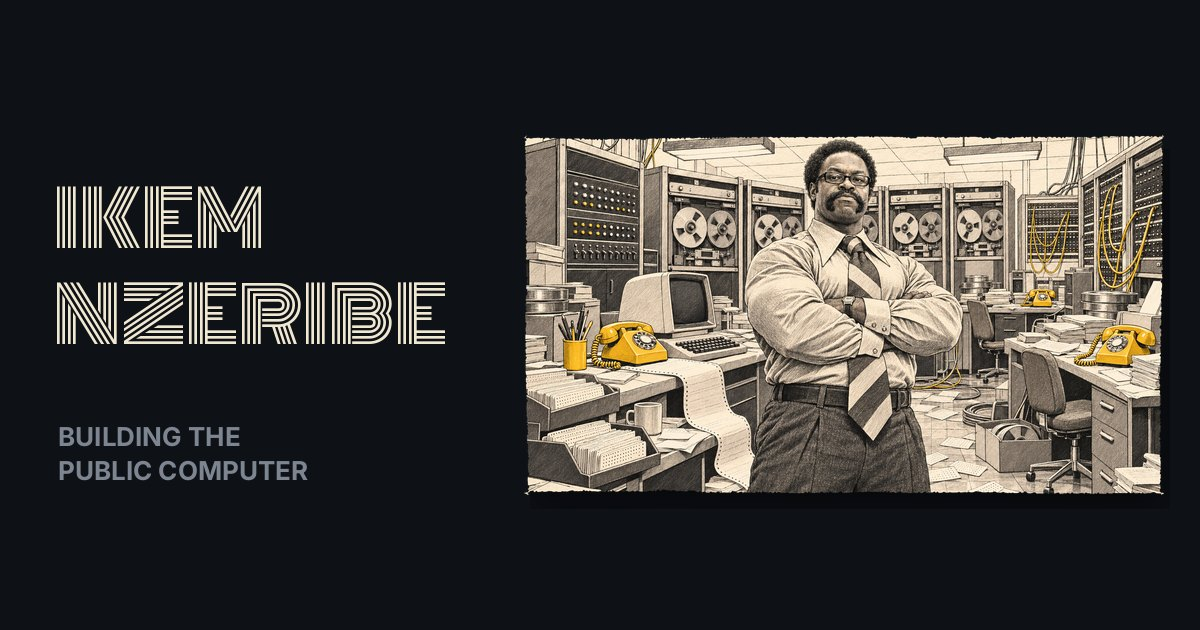
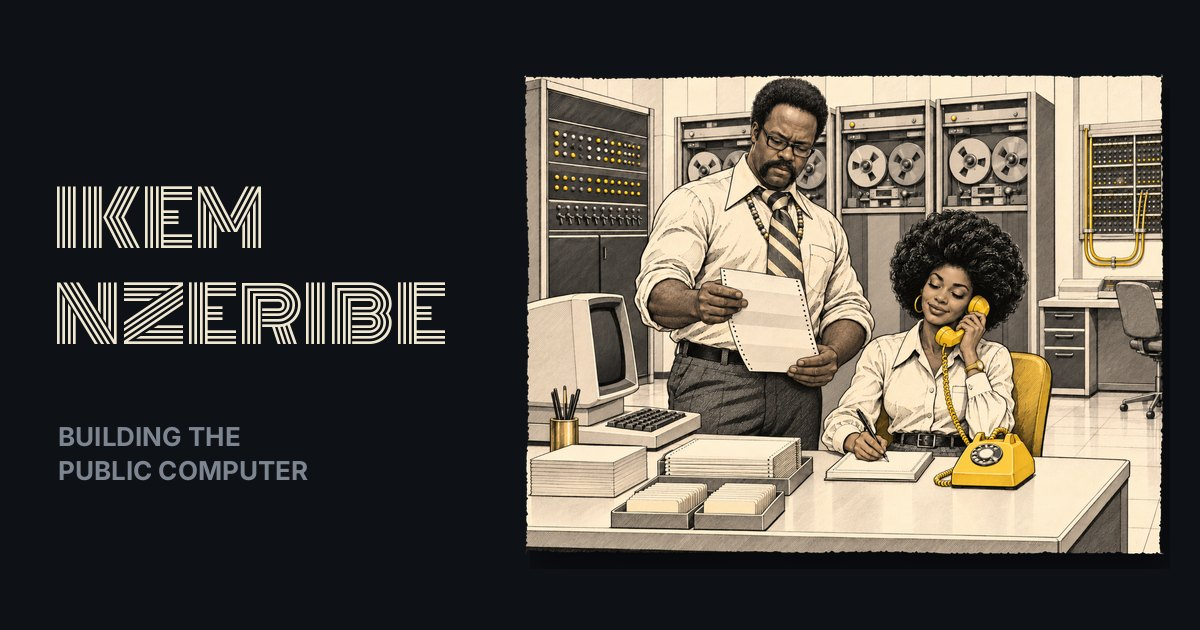
Update

diff --git a/index.html b/index.html
@@ -13,7 +13,7 @@
 <meta property="og:image" content="https://nzeribe.uk/img/og.jpg">
 <meta property="og:image:width" content="1200">
 <meta property="og:image:height" content="630">
-<meta property="og:image:alt" content="Ikem Nzeribe, drawn standing arms folded in a 1970s computer room, beside his name in striped 1970s letters.">
+<meta property="og:image:alt" content="Ikem Nzeribe and a colleague, drawn at work in a 1970s computer room, beside his name in striped 1970s letters.">
 <meta name="twitter:card" content="summary_large_image">
 <meta name="theme-color" content="#0e1116">
 <link rel="icon" type="image/png" sizes="64x64" href="img/favicon-64.png">
@@ -37,7 +37,7 @@
 
   <figure class="wrap card hero">
     <div class="frame">
-      <img src="img/hero-1600.webp" srcset="img/hero-900.webp 900w, img/hero-1600.webp 1600w" sizes="(min-width: 1280px) 1184px, calc(100vw - 2rem)" width="1600" height="900" alt="A drawing of Ikem in a 1970s computer room, arms folded, in a dagger-collared shirt and a fat striped tie. Tape drives, lamp panels and cables fill the room; punch cards and paper are everywhere; three yellow rotary telephones sit on the desks.">
+      <img src="img/hero-1600.webp" srcset="img/hero-900.webp 900w, img/hero-1600.webp 1447w" sizes="(min-width: 1280px) 1184px, calc(100vw - 2rem)" width="1447" height="1087" alt="A drawing of Ikem and a colleague running a 1970s computer room together: she takes a call on a yellow rotary telephone and writes it down while he reads a printout. Tape drives and lamp panels line the walls, and the room is in good order.">
       <p class="caption" aria-hidden="true"><span data-caption></span></p>
     </div>
   </figure>
@@ -50,8 +50,8 @@
     <p class="kicker">Now</p>
     <h2 id="now-title" class="chunky">The Public Computer</h2>
     <p class="line">A new kind of social technology, designed to bring people together.</p>
-    <figure class="telephones">
-      <img src="img/telephones-1600.webp" srcset="img/telephones-900.webp 900w, img/telephones-1600.webp 1600w" sizes="(min-width: 1280px) 1184px, calc(100vw - 2rem)" width="1600" height="302" loading="lazy" alt="A drawing of five yellow rotary telephones in a row, joined one to the next by their curly cords.">
+    <figure class="dissolve">
+      <img src="img/switchboard-1600.webp" srcset="img/switchboard-900.webp 900w, img/switchboard-1600.webp 1600w" sizes="(min-width: 1280px) 1184px, calc(100vw - 2rem)" width="1600" height="533" loading="lazy" alt="A drawing of a 1970s switchboard operator connecting a chain of people, young and old, who talk to one another on yellow telephones; every cord runs back to her board.">
     </figure>
   </section>
 

diff --git a/style.css b/style.css
@@ -184,9 +184,6 @@ a:focus-visible { outline: 3px solid var(--yellow); outline-offset: 4px; border-
   line-height: 1.3;
 }
 
-.telephones { margin: clamp(1.8rem, 4.5vw, 3.2rem) 0 0; }
-.telephones img { width: 100%; filter: drop-shadow(0 0.7rem 1.1rem rgba(0, 0, 0, 0.5)); }
-
 .racer { margin-top: clamp(3rem, 8vw, 6rem); }
 
 .contact { margin-top: clamp(3rem, 8vw, 6rem); }
@@ -244,4 +241,12 @@ a:focus-visible { outline: 3px solid var(--yellow); outline-offset: 4px; border-
 
 @media (max-width: 560px) {
   .who { align-items: flex-start; }
+}
+
+.dissolve { margin: clamp(1.8rem, 4.5vw, 3.2rem) 0 0; }
+.dissolve img {
+  width: 100%;
+  mix-blend-mode: screen;
+  -webkit-mask-image: radial-gradient(ellipse 72% 78% at 50% 50%, #000 70%, transparent 100%);
+  mask-image: radial-gradient(ellipse 72% 78% at 50% 50%, #000 70%, transparent 100%);
 }
